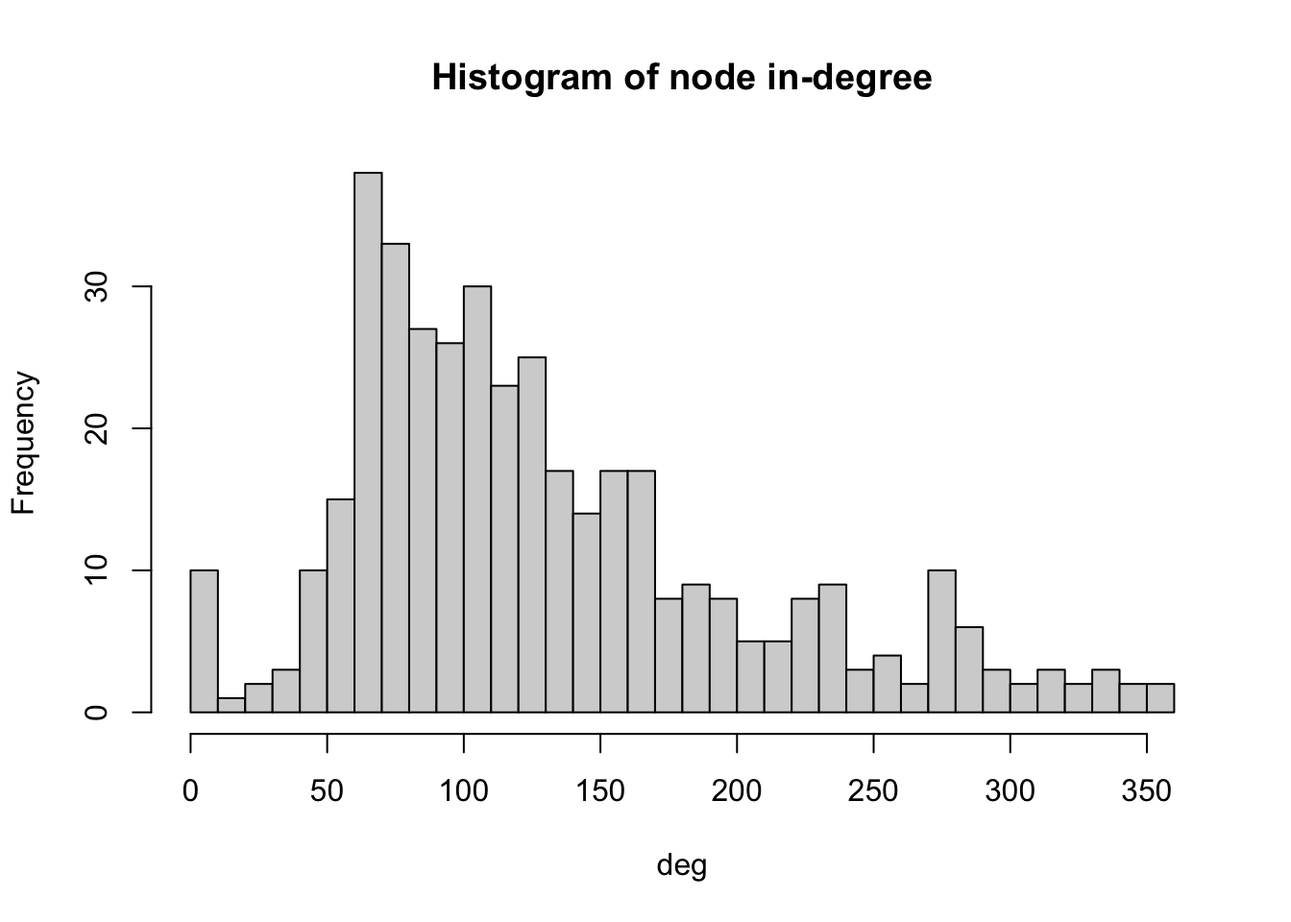
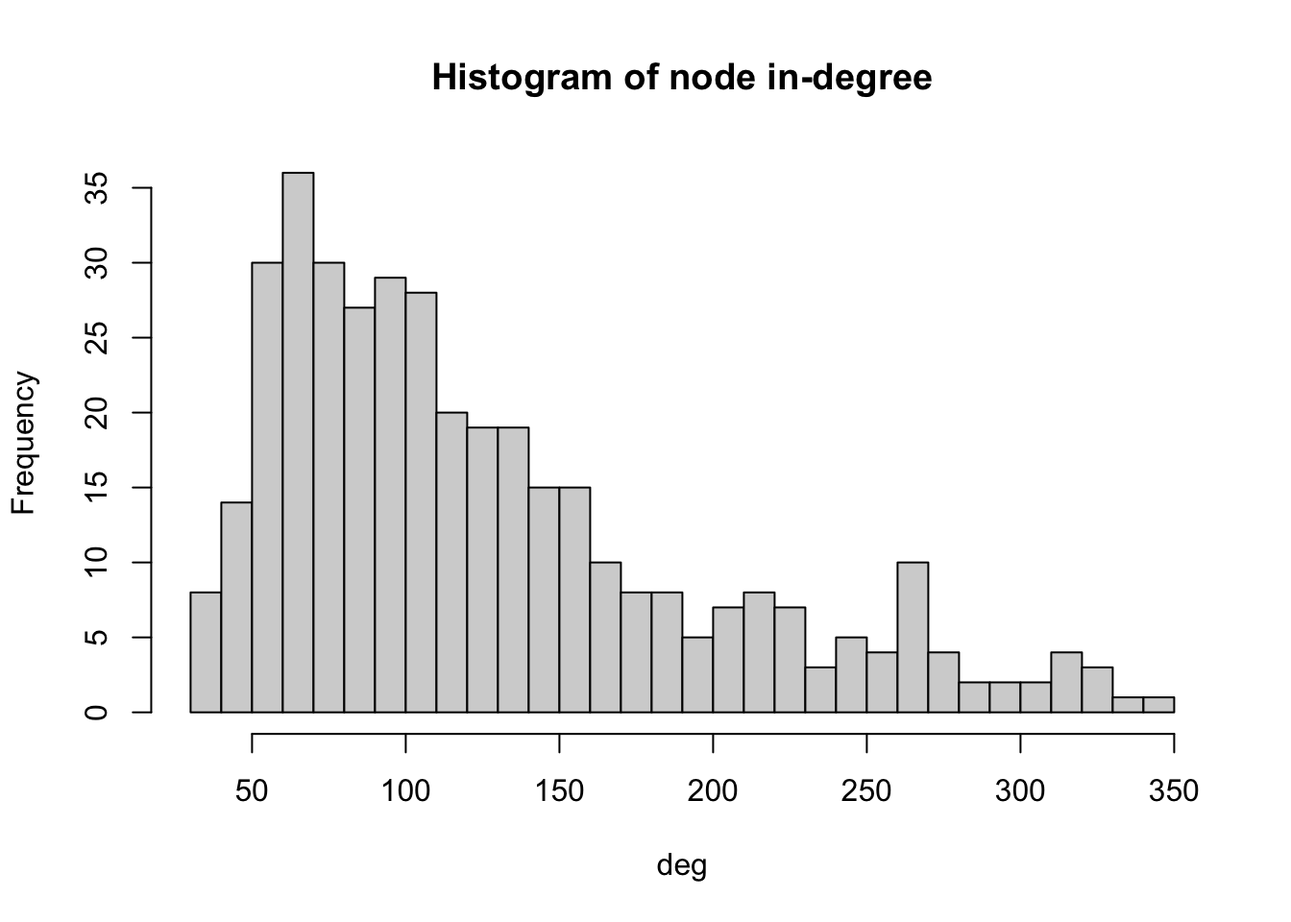
Carmen_17_Jan_night
Up to hubs and authorities

diff --git a/_book/network.html b/_book/network.html
@@ -347,6 +347,7 @@ code span.wa { color: #60a0b0; font-weight: bold; font-style: italic; } /* Warni
 <h3 data-number="5.2.2" class="anchored" data-anchor-id="import-the-data"><span class="header-section-number">5.2.2</span> Import the data</h3>
 <p>Before we start any analysis with the data, ensure to set the path to the directory where we are working. Please replace in the following line the path to the folder where you have placed the data file.</p>
 <div class="cell">
+<<<<<<< Updated upstream
 <div class="sourceCode cell-code" id="cb4"><pre class="sourceCode r code-with-copy"><code class="sourceCode r"><span id="cb4-1"><a href="#cb4-1" aria-hidden="true" tabindex="-1"></a>df <span class="ot">&lt;-</span> <span class="fu">read.csv</span>(<span class="st">"./data/metro_to_metro_2015_2019_US_migration.csv"</span>)</span>
 <span id="cb4-2"><a href="#cb4-2" aria-hidden="true" tabindex="-1"></a></span>
 <span id="cb4-3"><a href="#cb4-3" aria-hidden="true" tabindex="-1"></a><span class="co">#Ensure the MSA code is imported as a character and not as a number</span></span>
@@ -358,6 +359,35 @@ code span.wa { color: #60a0b0; font-weight: bold; font-style: italic; } /* Warni
 <span id="cb4-9"><a href="#cb4-9" aria-hidden="true" tabindex="-1"></a></span>
 <span id="cb4-10"><a href="#cb4-10" aria-hidden="true" tabindex="-1"></a><span class="co">#Examine the first few rows of the dataset</span></span>
 <span id="cb4-11"><a href="#cb4-11" aria-hidden="true" tabindex="-1"></a><span class="fu">head</span>(df) </span></code><button title="Copy to Clipboard" class="code-copy-button"><i class="bi"></i></button></pre></div>
+=======
+<div class="sourceCode cell-code" id="cb12"><pre class="sourceCode r code-with-copy"><code class="sourceCode r"><span id="cb12-1"><a href="#cb12-1" aria-hidden="true" tabindex="-1"></a>df <span class="ot">&lt;-</span> <span class="fu">read.csv</span>(<span class="st">"./data/metro_to_metro_2015_2019_US_migration.csv"</span>)</span>
+<span id="cb12-2"><a href="#cb12-2" aria-hidden="true" tabindex="-1"></a></span>
+<span id="cb12-3"><a href="#cb12-3" aria-hidden="true" tabindex="-1"></a><span class="co">#Ensure the MSA code is imported as a character and not as a number</span></span>
+<span id="cb12-4"><a href="#cb12-4" aria-hidden="true" tabindex="-1"></a>df<span class="sc">$</span>MSA_Current_Code <span class="ot">&lt;-</span> <span class="fu">as.character</span>(df<span class="sc">$</span>MSA_Current_Code) </span>
+<span id="cb12-5"><a href="#cb12-5" aria-hidden="true" tabindex="-1"></a></span>
+<span id="cb12-6"><a href="#cb12-6" aria-hidden="true" tabindex="-1"></a><span class="co">#Include an additional column with the full name of the MSA in the format: Name, State</span></span>
+<span id="cb12-7"><a href="#cb12-7" aria-hidden="true" tabindex="-1"></a>df<span class="sc">$</span>MSA_Previous_Name_State <span class="ot">&lt;-</span> <span class="fu">paste0</span>(df<span class="sc">$</span>MSA_Previous_Name, <span class="st">', '</span>, df<span class="sc">$</span>MSA_Previous_State)</span>
+<span id="cb12-8"><a href="#cb12-8" aria-hidden="true" tabindex="-1"></a>df<span class="sc">$</span>MSA_Current_Name_State <span class="ot">&lt;-</span> <span class="fu">paste0</span>(df<span class="sc">$</span>MSA_Current_Name, <span class="st">', '</span>, df<span class="sc">$</span>MSA_Current_State)</span>
+<span id="cb12-9"><a href="#cb12-9" aria-hidden="true" tabindex="-1"></a></span>
+<span id="cb12-10"><a href="#cb12-10" aria-hidden="true" tabindex="-1"></a>df <span class="ot">&lt;-</span> df[<span class="sc">!</span>(df<span class="sc">$</span>MSA_Previous_Name<span class="sc">==</span><span class="st">"Outside Metro Area within U.S. or Puerto Rico"</span> <span class="sc">|</span></span>
+<span id="cb12-11"><a href="#cb12-11" aria-hidden="true" tabindex="-1"></a>             df<span class="sc">$</span>MSA_Previous_Name<span class="sc">==</span><span class="st">"Africa"</span> <span class="sc">|</span></span>
+<span id="cb12-12"><a href="#cb12-12" aria-hidden="true" tabindex="-1"></a>             df<span class="sc">$</span>MSA_Previous_Name<span class="sc">==</span><span class="st">"Asia"</span> <span class="sc">|</span></span>
+<span id="cb12-13"><a href="#cb12-13" aria-hidden="true" tabindex="-1"></a>             df<span class="sc">$</span>MSA_Previous_Name<span class="sc">==</span><span class="st">"Central America"</span> <span class="sc">|</span></span>
+<span id="cb12-14"><a href="#cb12-14" aria-hidden="true" tabindex="-1"></a>             df<span class="sc">$</span>MSA_Previous_Name<span class="sc">==</span><span class="st">"Caribbean"</span> <span class="sc">|</span></span>
+<span id="cb12-15"><a href="#cb12-15" aria-hidden="true" tabindex="-1"></a>             df<span class="sc">$</span>MSA_Previous_Name<span class="sc">==</span><span class="st">"Europe"</span> <span class="sc">|</span></span>
+<span id="cb12-16"><a href="#cb12-16" aria-hidden="true" tabindex="-1"></a>             df<span class="sc">$</span>MSA_Previous_Name<span class="sc">==</span><span class="st">"U.S. Island Areas"</span> <span class="sc">|</span></span>
+<span id="cb12-17"><a href="#cb12-17" aria-hidden="true" tabindex="-1"></a>             df<span class="sc">$</span>MSA_Previous_Name<span class="sc">==</span><span class="st">"Northern America"</span> <span class="sc">|</span></span>
+<span id="cb12-18"><a href="#cb12-18" aria-hidden="true" tabindex="-1"></a>             df<span class="sc">$</span>MSA_Previous_Name<span class="sc">==</span><span class="st">"Oceania and At Sea"</span> <span class="sc">|</span></span>
+<span id="cb12-19"><a href="#cb12-19" aria-hidden="true" tabindex="-1"></a>             df<span class="sc">$</span>MSA_Previous_Name<span class="sc">==</span><span class="st">"South America"</span></span>
+<span id="cb12-20"><a href="#cb12-20" aria-hidden="true" tabindex="-1"></a>             ), </span>
+<span id="cb12-21"><a href="#cb12-21" aria-hidden="true" tabindex="-1"></a>         ]</span>
+<span id="cb12-22"><a href="#cb12-22" aria-hidden="true" tabindex="-1"></a></span>
+<span id="cb12-23"><a href="#cb12-23" aria-hidden="true" tabindex="-1"></a>df <span class="ot">&lt;-</span> df[<span class="sc">!</span>(df<span class="sc">$</span>MSA_Previous_State<span class="sc">==</span><span class="st">"PR"</span> <span class="sc">|</span></span>
+<span id="cb12-24"><a href="#cb12-24" aria-hidden="true" tabindex="-1"></a>             df<span class="sc">$</span>MSA_Current_State<span class="sc">==</span><span class="st">"PR"</span>), ]</span>
+<span id="cb12-25"><a href="#cb12-25" aria-hidden="true" tabindex="-1"></a>             </span>
+<span id="cb12-26"><a href="#cb12-26" aria-hidden="true" tabindex="-1"></a><span class="co">#Examine the first few rows of the dataset</span></span>
+<span id="cb12-27"><a href="#cb12-27" aria-hidden="true" tabindex="-1"></a><span class="fu">head</span>(df)</span></code><button title="Copy to Clipboard" class="code-copy-button"><i class="bi"></i></button></pre></div>
+>>>>>>> Stashed changes
 <div class="cell-output cell-output-stdout">
 <pre><code>  MSA_Current_Code MSA_Current_Name MSA_Current_State
 1            10180          Abilene                TX
@@ -421,7 +451,7 @@ code span.wa { color: #60a0b0; font-weight: bold; font-style: italic; } /* Warni
 <div class="cell">
 <div class="sourceCode cell-code" id="cb6"><pre class="sourceCode r code-with-copy"><code class="sourceCode r"><span id="cb6-1"><a href="#cb6-1" aria-hidden="true" tabindex="-1"></a><span class="fu">nrow</span>(df)</span></code><button title="Copy to Clipboard" class="code-copy-button"><i class="bi"></i></button></pre></div>
 <div class="cell-output cell-output-stdout">
-<pre><code>[1] 52930</code></pre>
+<pre><code>[1] 48795</code></pre>
 </div>
 </div>
 </section>
@@ -468,7 +498,11 @@ code span.wa { color: #60a0b0; font-weight: bold; font-style: italic; } /* Warni
 <div class="cell">
 <div class="sourceCode cell-code" id="cb11"><pre class="sourceCode r code-with-copy"><code class="sourceCode r"><span id="cb11-1"><a href="#cb11-1" aria-hidden="true" tabindex="-1"></a><span class="fu">V</span>(g3)</span></code><button title="Copy to Clipboard" class="code-copy-button"><i class="bi"></i></button></pre></div>
 <div class="cell-output cell-output-stdout">
+<<<<<<< Updated upstream
 <pre><code>+ 7/7 vertices, named, from 53bb9e3:
+=======
+<pre><code>+ 7/7 vertices, named, from 51e33f1:
+>>>>>>> Stashed changes
 [1] City 1 City 2 City 3 City 4 City 5 City 6 City 7</code></pre>
 </div>
 </div>
@@ -487,7 +521,11 @@ code span.wa { color: #60a0b0; font-weight: bold; font-style: italic; } /* Warni
 <div class="cell">
 <div class="sourceCode cell-code" id="cb16"><pre class="sourceCode r code-with-copy"><code class="sourceCode r"><span id="cb16-1"><a href="#cb16-1" aria-hidden="true" tabindex="-1"></a><span class="fu">E</span>(g3)</span></code><button title="Copy to Clipboard" class="code-copy-button"><i class="bi"></i></button></pre></div>
 <div class="cell-output cell-output-stdout">
+<<<<<<< Updated upstream
 <pre><code>+ 6/6 edges from 53bb9e3 (vertex names):
+=======
+<pre><code>+ 6/6 edges from 51e33f1 (vertex names):
+>>>>>>> Stashed changes
 [1] City 1-&gt;City 2 City 2-&gt;City 3 City 1-&gt;City 4 City 4-&gt;City 1 City 4-&gt;City 2
 [6] City 4-&gt;City 5</code></pre>
 </div>
@@ -729,11 +767,11 @@ Geodetic CRS:  NAD83</code></pre>
 <p>Here we define some of the most important metrics that help us quantify different characteristics of a network. We will use the migration network for the whole of the US again, <em>g_US</em>. It has more nodes and edges than <em>g_sub</em> and consequently, its behaviour is richer and helps us illustrate better the concepts that we introduce in this section.</p>
 <section id="density" class="level3" data-number="5.6.1">
 <h3 data-number="5.6.1" class="anchored" data-anchor-id="density"><span class="header-section-number">5.6.1</span> Density</h3>
-<p>The network <strong>density</strong> is defined as the proportion of existing edges out of all the possible edges. In a network with <span class="math inline">\(n\)</span> nodes, the total number of possible edges is $n\times(n-1)$, i.e.&nbsp;the number of edges if each node was connected to all the other nodes. A density equal to <span class="math inline">\(1\)</span> corresponds to a situation where <span class="math inline">\(n\times(n-1)\)</span> edges are present. A network with no edges at all would have density equal to <span class="math inline">\(0\)</span>. The line of code below tells us that the density of <em>g_sub</em> is approximately 0.33, meaning that about 33% of all the possible edges are present, or in other words, that there are migratory movements between almost a third of every pair of cities.</p>
+<p>The network <strong>density</strong> is defined as the proportion of existing edges out of all the possible edges. In a network with <span class="math inline">\(n\)</span> nodes, the total number of possible edges is <span class="math inline">\(n\times(n-1)\)</span>, i.e.&nbsp;the number of edges if each node was connected to all the other nodes. A density equal to <span class="math inline">\(1\)</span> corresponds to a situation where <span class="math inline">\(n\times(n-1)\)</span> edges are present. A network with no edges at all would have density equal to <span class="math inline">\(0\)</span>. The line of code below tells us that the density of <em>g_US</em> is approximately 0.33, meaning that about 33% of all the possible edges are present, or in other words, that there are migratory movements between almost a third of every pair of cities.</p>
 <div class="cell">
 <div class="sourceCode cell-code" id="cb47"><pre class="sourceCode r code-with-copy"><code class="sourceCode r"><span id="cb47-1"><a href="#cb47-1" aria-hidden="true" tabindex="-1"></a><span class="fu">edge_density</span>(g_US, <span class="at">loops=</span><span class="cn">FALSE</span>)</span></code><button title="Copy to Clipboard" class="code-copy-button"><i class="bi"></i></button></pre></div>
 <div class="cell-output cell-output-stdout">
-<pre><code>[1] 0.3283458</code></pre>
+<pre><code>[1] 0.3317763</code></pre>
 </div>
 </div>
 </section>
@@ -743,14 +781,14 @@ Geodetic CRS:  NAD83</code></pre>
 <div class="cell">
 <div class="sourceCode cell-code" id="cb49"><pre class="sourceCode r code-with-copy"><code class="sourceCode r"><span id="cb49-1"><a href="#cb49-1" aria-hidden="true" tabindex="-1"></a><span class="fu">reciprocity</span>(g_US)</span></code><button title="Copy to Clipboard" class="code-copy-button"><i class="bi"></i></button></pre></div>
 <div class="cell-output cell-output-stdout">
-<pre><code>[1] 0.6067259</code></pre>
+<pre><code>[1] 0.6496977</code></pre>
 </div>
 </div>
 <p>From this result, we conclude that about 62% of the pairs of nodes that are connected have edges in both directions.</p>
 </section>
 <section id="degree" class="level3" data-number="5.6.3">
 <h3 data-number="5.6.3" class="anchored" data-anchor-id="degree"><span class="header-section-number">5.6.3</span> Degree</h3>
-<p>The <strong>total degree</strong> of a node refers to the number of edges that emerge from or point at that node. The <strong>in-degree</strong> of a node in a directed network is the number of edges that point at it whereas the <strong>out-degree</strong> is the number of edges that emerge from it. The <strong>degree()</strong> functions, allows us to compute the degree of one or more nodes and allows us to specify if we are interested in the total degree, the in-degree or the out-degree.</p>
+<p>The <strong>total degree</strong> of a node refers to the number of edges that emerge from or point at that node. The <strong>in-degree</strong> of a node in a directed network is the number of edges that point at it whereas the <strong>out-degree</strong> is the number of edges that emerge from it. The <strong>degree()</strong> function, allows us to compute the degree of one or more nodes and allows us to specify if we are interested in the total degree, the in-degree or the out-degree.</p>
 <div class="cell">
 <div class="sourceCode cell-code" id="cb51"><pre class="sourceCode r code-with-copy"><code class="sourceCode r"><span id="cb51-1"><a href="#cb51-1" aria-hidden="true" tabindex="-1"></a><span class="co"># Compute degree of the nodes given by v belonging to graph g_US, in this case the in-degree</span></span>
 <span id="cb51-2"><a href="#cb51-2" aria-hidden="true" tabindex="-1"></a>deg <span class="ot">&lt;-</span> <span class="fu">degree</span>(g_US, <span class="at">v=</span><span class="fu">V</span>(g_US), <span class="at">mode=</span><span class="st">"in"</span>)</span>
@@ -765,8 +803,7 @@ Geodetic CRS:  NAD83</code></pre>
 <div class="cell">
 <div class="sourceCode cell-code" id="cb52"><pre class="sourceCode r code-with-copy"><code class="sourceCode r"><span id="cb52-1"><a href="#cb52-1" aria-hidden="true" tabindex="-1"></a><span class="fu">V</span>(g_US)<span class="sc">$</span>name[<span class="fu">degree</span>(g_US, <span class="at">mode=</span><span class="st">"in"</span>)<span class="sc">==</span><span class="fu">max</span>(<span class="fu">degree</span>(g_US, <span class="at">mode=</span><span class="st">"in"</span>))]</span></code><button title="Copy to Clipboard" class="code-copy-button"><i class="bi"></i></button></pre></div>
 <div class="cell-output cell-output-stdout">
-<pre><code>[1] "Phoenix-Mesa-Chandler, AZ"                   
-[2] "Washington-Arlington-Alexandria, DC-VA-MD-WV"</code></pre>
+<pre><code>[1] "Phoenix-Mesa-Chandler, AZ"</code></pre>
 </div>
 </div>
 <p>We actually obtain a tie between two: the MSA containing Phoenix in Arizona and the MSA containing Washington DC, which actually spans over four states. Their in-degree is 354 as we can see below.</p>
@@ -774,62 +811,132 @@ Geodetic CRS:  NAD83</code></pre>
 <div class="sourceCode cell-code" id="cb54"><pre class="sourceCode r code-with-copy"><code class="sourceCode r"><span id="cb54-1"><a href="#cb54-1" aria-hidden="true" tabindex="-1"></a><span class="fu">degree</span>(g_US, <span class="at">v=</span><span class="fu">c</span>(<span class="st">"Phoenix-Mesa-Chandler, AZ"</span>), <span class="at">mode=</span><span class="st">"in"</span>)</span></code><button title="Copy to Clipboard" class="code-copy-button"><i class="bi"></i></button></pre></div>
 <div class="cell-output cell-output-stdout">
 <pre><code>Phoenix-Mesa-Chandler, AZ 
-                      354 </code></pre>
+                      341 </code></pre>
 </div>
 <div class="sourceCode cell-code" id="cb56"><pre class="sourceCode r code-with-copy"><code class="sourceCode r"><span id="cb56-1"><a href="#cb56-1" aria-hidden="true" tabindex="-1"></a><span class="fu">degree</span>(g_US, <span class="at">v=</span><span class="fu">c</span>(<span class="st">"Washington-Arlington-Alexandria, DC-VA-MD-WV"</span>), <span class="at">mode=</span><span class="st">"in"</span>)</span></code><button title="Copy to Clipboard" class="code-copy-button"><i class="bi"></i></button></pre></div>
 <div class="cell-output cell-output-stdout">
 <pre><code>Washington-Arlington-Alexandria, DC-VA-MD-WV 
-                                         354 </code></pre>
+                                         336 </code></pre>
 </div>
 </div>
 <p>Note that the fact that these two cities have the largest in-degree does not necessarily mean that they are the ones receiving the largest number of migrants.</p>
 </section>
 <section id="distances" class="level3" data-number="5.6.4">
 <h3 data-number="5.6.4" class="anchored" data-anchor-id="distances"><span class="header-section-number">5.6.4</span> Distances</h3>
-<p>Shortest path between nodes, mean distance, diameter ,etc.</p>
+<p>A <strong>path</strong> in a network between node <span class="math inline">\(A\)</span> and node <span class="math inline">\(B\)</span> is a sequence of edges which joins a sequence of distinct nodes, starting at node <span class="math inline">\(A\)</span> and terminating at node <span class="math inline">\(B\)</span>. In a <strong>directed path</strong> there is an added restriction: the edges must be all directed in the same direction.</p>
+<p>The <strong>length of a path</strong> between nodes <span class="math inline">\(A\)</span> and <span class="math inline">\(B\)</span> is normally defined as the number of edges that form the path. The <strong>shortest path</strong> is the minimum number of edges that need to be traversed to travel from <span class="math inline">\(A\)</span> to <span class="math inline">\(B\)</span>.</p>
+<p>The length of a path can also be defined in other ways. For example, if the edges are weighted, it can be defined as the sum of the weights of the edges that form the path.</p>
+<p>In R, we can use the function <strong>shortest_paths()</strong> to find the shortest path between a given pair of nodes and its length. For example, below we can see that the shortest path between the MSA containing New York and the MSA containing Los Angeles is one. This is not surprising since we would expect an edge connecting these two MSAs representing the fact that there is people migrating from one to the other in two consecutive years.</p>
 <div class="cell">
+<<<<<<< Updated upstream
 <div class="sourceCode cell-code" id="cb58"><pre class="sourceCode r code-with-copy"><code class="sourceCode r"><span id="cb58-1"><a href="#cb58-1" aria-hidden="true" tabindex="-1"></a><span class="fu">diameter</span>(g_US)</span></code><button title="Copy to Clipboard" class="code-copy-button"><i class="bi"></i></button></pre></div>
+=======
+<div class="sourceCode cell-code" id="cb66"><pre class="sourceCode r code-with-copy"><code class="sourceCode r"><span id="cb66-1"><a href="#cb66-1" aria-hidden="true" tabindex="-1"></a><span class="fu">shortest_paths</span>(g_US, </span>
+<span id="cb66-2"><a href="#cb66-2" aria-hidden="true" tabindex="-1"></a><span class="at">from =</span> <span class="fu">V</span>(g_US)<span class="sc">$</span>name<span class="sc">==</span><span class="st">"New York-Newark-Jersey City, NY-NJ-PA"</span>,</span>
+<span id="cb66-3"><a href="#cb66-3" aria-hidden="true" tabindex="-1"></a><span class="at">to =</span> <span class="fu">V</span>(g_US)<span class="sc">$</span>name<span class="sc">==</span><span class="st">"Los Angeles-Long Beach-Anaheim, CA"</span>,</span>
+<span id="cb66-4"><a href="#cb66-4" aria-hidden="true" tabindex="-1"></a><span class="at">weights=</span><span class="cn">NA</span>, <span class="co">#If this is NULL and the graph has a weight edge attribute, then the attribute is used. If this is NA then no weights are used (even if the graph has a weight attribute)</span></span>
+<span id="cb66-5"><a href="#cb66-5" aria-hidden="true" tabindex="-1"></a><span class="at">output =</span> <span class="st">"both"</span>) <span class="co"># outputs both path nodes and edges</span></span></code><button title="Copy to Clipboard" class="code-copy-button"><i class="bi"></i></button></pre></div>
+>>>>>>> Stashed changes
 <div class="cell-output cell-output-stdout">
-<pre><code>[1] 36</code></pre>
+<pre><code>$vpath
+$vpath[[1]]
++ 2/384 vertices, named, from ccd4726:
+[1] New York-Newark-Jersey City, NY-NJ-PA Los Angeles-Long Beach-Anaheim, CA   
+
+
+$epath
+$epath[[1]]
++ 1/48795 edge from ccd4726 (vertex names):
+[1] New York-Newark-Jersey City, NY-NJ-PA-&gt;Los Angeles-Long Beach-Anaheim, CA
+
+
+$predecessors
+NULL
+
+$inbound_edges
+NULL</code></pre>
+</div>
+</div>
+<p>Of all shortest paths in a network, there is longest one whose length is defined as the <strong>diameter</strong> of the network. In this case, the diameter is 3 meaning that the longest of all shortest paths in <em>g_US</em> has 3 edges.</p>
+<div class="cell">
+<div class="sourceCode cell-code" id="cb68"><pre class="sourceCode r code-with-copy"><code class="sourceCode r"><span id="cb68-1"><a href="#cb68-1" aria-hidden="true" tabindex="-1"></a><span class="fu">diameter</span>(g_US, <span class="at">directed=</span><span class="cn">TRUE</span>, <span class="at">weights=</span><span class="cn">NA</span>)</span></code><button title="Copy to Clipboard" class="code-copy-button"><i class="bi"></i></button></pre></div>
+<div class="cell-output cell-output-stdout">
+<pre><code>[1] 2</code></pre>
+</div>
+</div>
+<p>The mean distance is defined as the average length of all shortest paths in the network. The mean distance will always be smaller than the diameter.</p>
+<div class="cell">
+<div class="sourceCode cell-code" id="cb70"><pre class="sourceCode r code-with-copy"><code class="sourceCode r"><span id="cb70-1"><a href="#cb70-1" aria-hidden="true" tabindex="-1"></a><span class="fu">mean_distance</span>(g_US, <span class="at">directed=</span><span class="cn">TRUE</span>, <span class="at">weights=</span><span class="cn">NA</span>)</span></code><button title="Copy to Clipboard" class="code-copy-button"><i class="bi"></i></button></pre></div>
+<div class="cell-output cell-output-stdout">
+<pre><code>[1] 1.668224</code></pre>
 </div>
 </div>
 </section>
 <section id="centrality" class="level3" data-number="5.6.5">
 <h3 data-number="5.6.5" class="anchored" data-anchor-id="centrality"><span class="header-section-number">5.6.5</span> Centrality</h3>
+<p>Centrality metrics assign scores to nodes (and sometimes also edges) according to their position within a network. These metrics can be used to identify the most influential nodes.</p>
+<p>We have already explored some concepts which can be regarded as centrality metrics, for example, the <strong>degree</strong> of a node or the <strong>strength of a node</strong> or weighted degree, which is the sum of edge weights that link to adjacent nodes or, in other words, the total in-flow or out-flow associated with each node. As we can see from the code below, many nodes in <em>g_US</em> have an inflow of less than 100 immigrants.</p>
 <div class="cell">
-<div class="sourceCode cell-code" id="cb60"><pre class="sourceCode r code-with-copy"><code class="sourceCode r"><span id="cb60-1"><a href="#cb60-1" aria-hidden="true" tabindex="-1"></a><span class="fu">centr_degree</span>(g_US, <span class="at">mode=</span><span class="st">"in"</span>, <span class="at">normalized=</span>T)</span></code><button title="Copy to Clipboard" class="code-copy-button"><i class="bi"></i></button></pre></div>
-<div class="cell-output cell-output-stdout">
-<pre><code>$res
-  [1] 198 108 330 108 283 275 127 182 116 175 104  66 251 285 187 104 344 198
- [19] 259 123 258 231 141 197 345 331 280 174  66 113 237 159 110  78 148  96
- [37] 230  63 304 261 220 132  44  73  55  76 300 169 166  95 115 333 115 121
- [55] 125 205 297  79 123  66 144  78 291 330 148  67 176 243 237 150 209 240
- [73] 311 354 105  96 282 230 277 134 228 101 279 304 276 222 110 204 316  73
- [91] 113 110 149 336  73 122 245  81 101 128  45 128 354  78 164 138 157   0
-[109]   0   0   0   0   0   0 172  33 163 276 148 132 271 167 104 103 105  26
-[127] 247 128  36 232 286  53 112 200 160  25 113 261  47  20   0  75  70 170
-[145]  61 194 202  74  81 113 170 164  72 105 221  65  92 255  92 271 216 192
-[163]  55 180 196 181  97 178 170 122 157 117  83 151 232 122 288 228 133 163
-[181] 187  70 227 186  71  68 282  64 127 185 222 240 144  54 276 156 274 157
-[199] 207 235 219 127  69  88 128 158 103 156  74 116 190 102 100 163  90 237
-[217] 104 319  93  67  68  77 179 146   0   0  76 136  68  56 131 166 115  69
-[235] 164  88 106  93 217  99  71 140 200  70  82  81 103  94 146 168 155 109
-[253]  94  95  62 113  98 103 152 123  62  98  87 165 187  76  66 117  69  93
-[271]  85 108  92  90 123 116  88 116 133 213  50  69 110 151  61  99 129  67
-[289]  72  74  65 151 161  63  83 154  93 129 117 107 132 115 145 150 155 125
-[307] 134 130 178  42  62 139 130 151 185 161  54  86  99 100  52  70  74 108
-[325]  75 119 140 128 115 121 134 139  43  52  78  47  68  69  90  87 143  80
-[343]  66  83  50 140 159  67  80 106 114  85 117 107  80 123  95  87  93  72
-[361]  86  81  81  89  63  83  93  54  66 124  55 134  60 119  75  77  81 107
-[379]  77  56  78 113  51  37  74 102  80 145 101  62  87  83 100  64  59  68
-[397]  99  67  41  76  51  46
-
-$centralization
-[1] 0.5544472
-
-$theoretical_max
-[1] 161202</code></pre>
+<div class="sourceCode cell-code" id="cb72"><pre class="sourceCode r code-with-copy"><code class="sourceCode r"><span id="cb72-1"><a href="#cb72-1" aria-hidden="true" tabindex="-1"></a><span class="co"># Compute strength of the nodes belonging to graph g_US, in this case the in-flow</span></span>
+<span id="cb72-2"><a href="#cb72-2" aria-hidden="true" tabindex="-1"></a>strength_US <span class="ot">&lt;-</span> <span class="fu">strength</span>(g_US, <span class="co">#The input graph</span></span>
+<span id="cb72-3"><a href="#cb72-3" aria-hidden="true" tabindex="-1"></a>  <span class="at">vids =</span> <span class="fu">V</span>(g_US), <span class="co"># The vertices for which the strength will be calculated.</span></span>
+<span id="cb72-4"><a href="#cb72-4" aria-hidden="true" tabindex="-1"></a>  <span class="at">mode =</span> <span class="fu">c</span>(<span class="st">"in"</span>), <span class="co">#“in” for in-degree</span></span>
+<span id="cb72-5"><a href="#cb72-5" aria-hidden="true" tabindex="-1"></a>  <span class="at">loops =</span> <span class="cn">FALSE</span>, <span class="co">#whether the loop edges are also counted</span></span>
+<span id="cb72-6"><a href="#cb72-6" aria-hidden="true" tabindex="-1"></a>  <span class="at">weights =</span> <span class="cn">NULL</span> <span class="co">#If the graph has a weight edge attribute, then this is used by default. If the graph does not have a weight edge attribute and this argument is NULL, then a warning is given and degree is called.</span></span>
+<span id="cb72-7"><a href="#cb72-7" aria-hidden="true" tabindex="-1"></a>)</span>
+<span id="cb72-8"><a href="#cb72-8" aria-hidden="true" tabindex="-1"></a>  </span>
+<span id="cb72-9"><a href="#cb72-9" aria-hidden="true" tabindex="-1"></a><span class="co">#Produce histogram of the frequency of nodes with a certain strength</span></span>
+<span id="cb72-10"><a href="#cb72-10" aria-hidden="true" tabindex="-1"></a><span class="fu">hist</span>(strength_US, <span class="at">breaks =</span> <span class="dv">50</span>, <span class="at">main=</span><span class="st">"Histogram of node strength"</span>)</span></code><button title="Copy to Clipboard" class="code-copy-button"><i class="bi"></i></button></pre></div>
+<div class="cell-output-display">
+<p><img src="network_files/figure-html/unnamed-chunk-43-1.png" class="img-fluid" width="672"></p>
 </div>
+</div>
+<p>We can check which is the city with the maximum strentgh:</p>
+<div class="cell">
+<<<<<<< Updated upstream
+<div class="sourceCode cell-code" id="cb60"><pre class="sourceCode r code-with-copy"><code class="sourceCode r"><span id="cb60-1"><a href="#cb60-1" aria-hidden="true" tabindex="-1"></a><span class="fu">centr_degree</span>(g_US, <span class="at">mode=</span><span class="st">"in"</span>, <span class="at">normalized=</span>T)</span></code><button title="Copy to Clipboard" class="code-copy-button"><i class="bi"></i></button></pre></div>
+=======
+<div class="sourceCode cell-code" id="cb73"><pre class="sourceCode r code-with-copy"><code class="sourceCode r"><span id="cb73-1"><a href="#cb73-1" aria-hidden="true" tabindex="-1"></a><span class="fu">V</span>(g_US)<span class="sc">$</span>name[<span class="fu">strength</span>(g_US, <span class="at">vids =</span> <span class="fu">V</span>(g_US), <span class="at">mode =</span> <span class="fu">c</span>(<span class="st">"in"</span>), <span class="at">loops =</span> <span class="cn">FALSE</span>, <span class="at">weights =</span> <span class="cn">NULL</span>)<span class="sc">==</span><span class="fu">max</span>(<span class="fu">strength</span>(g_US, <span class="at">vids =</span> <span class="fu">V</span>(g_US), <span class="at">mode =</span> <span class="fu">c</span>(<span class="st">"in"</span>), <span class="at">loops =</span> <span class="cn">FALSE</span>, <span class="at">weights =</span> <span class="cn">NULL</span>))]</span></code><button title="Copy to Clipboard" class="code-copy-button"><i class="bi"></i></button></pre></div>
+>>>>>>> Stashed changes
+<div class="cell-output cell-output-stdout">
+<pre><code>[1] "Los Angeles-Long Beach-Anaheim, CA"</code></pre>
+</div>
+</div>
+<p>We will look at another two important centrality metrics that are based on the structure of the network. Firstly, <strong>closeness centrality</strong> which is a measure of the length of the shortest path between a node and all the other nodes. For a given node, it is computed as the inverse of the average shortest paths between that node and every other node in the network. So, if a node has closeness centrality close to <span class="math inline">\(1\)</span>, it means that on average, it is very close to the other nodes in the network. A closeness centrality of exactly <span class="math inline">\(0\)</span> corresponds to an isolated node.</p>
+<div class="cell">
+<div class="sourceCode cell-code" id="cb75"><pre class="sourceCode r code-with-copy"><code class="sourceCode r"><span id="cb75-1"><a href="#cb75-1" aria-hidden="true" tabindex="-1"></a>close_centr <span class="ot">&lt;-</span> <span class="fu">closeness</span>(g_US, <span class="at">mode=</span><span class="st">"in"</span>, <span class="at">weights=</span><span class="cn">NA</span>)</span>
+<span id="cb75-2"><a href="#cb75-2" aria-hidden="true" tabindex="-1"></a><span class="fu">hist</span>(close_centr, <span class="at">breaks =</span> <span class="dv">50</span>, <span class="at">main=</span><span class="st">"Histogram of closeness centrality"</span>)</span></code><button title="Copy to Clipboard" class="code-copy-button"><i class="bi"></i></button></pre></div>
+<div class="cell-output-display">
+<p><img src="network_files/figure-html/unnamed-chunk-45-1.png" class="img-fluid" width="672"></p>
+</div>
+</div>
+<div class="cell">
+<div class="sourceCode cell-code" id="cb76"><pre class="sourceCode r code-with-copy"><code class="sourceCode r"><span id="cb76-1"><a href="#cb76-1" aria-hidden="true" tabindex="-1"></a><span class="fu">V</span>(g_US)<span class="sc">$</span>name[<span class="fu">closeness</span>(g_US, <span class="at">vids =</span> <span class="fu">V</span>(g_US), <span class="at">mode =</span> <span class="fu">c</span>(<span class="st">"in"</span>), <span class="at">weights =</span> <span class="cn">NA</span>)<span class="sc">==</span><span class="fu">max</span>(<span class="fu">closeness</span>(g_US, <span class="at">vids =</span> <span class="fu">V</span>(g_US), <span class="at">mode =</span> <span class="fu">c</span>(<span class="st">"in"</span>), <span class="at">weights =</span> <span class="cn">NA</span>))]</span></code><button title="Copy to Clipboard" class="code-copy-button"><i class="bi"></i></button></pre></div>
+<div class="cell-output cell-output-stdout">
+<pre><code>[1] "Phoenix-Mesa-Chandler, AZ"</code></pre>
+</div>
+</div>
+<p>The other metric is known as <strong>betweenness centrality</strong>. For a given node, it is a measure of the number of shortest paths that go through that node. Therefore, nodes with high values of betweenness centrality are those that play a very important role in the connectivity of the network. Betweenness can also be computed for edges.</p>
+<div class="cell">
+<div class="sourceCode cell-code" id="cb78"><pre class="sourceCode r code-with-copy"><code class="sourceCode r"><span id="cb78-1"><a href="#cb78-1" aria-hidden="true" tabindex="-1"></a>between_centr <span class="ot">&lt;-</span> <span class="fu">betweenness</span>(g_US, <span class="at">v =</span> <span class="fu">V</span>(g_US), <span class="at">directed =</span> <span class="cn">TRUE</span>, <span class="at">weights =</span> <span class="cn">NA</span>)</span>
+<span id="cb78-2"><a href="#cb78-2" aria-hidden="true" tabindex="-1"></a><span class="fu">hist</span>(between_centr, <span class="at">breaks =</span> <span class="dv">50</span>, <span class="at">main=</span><span class="st">"Histogram of betweenness centrality"</span>)</span></code><button title="Copy to Clipboard" class="code-copy-button"><i class="bi"></i></button></pre></div>
+<div class="cell-output-display">
+<p><img src="network_files/figure-html/unnamed-chunk-47-1.png" class="img-fluid" width="672"></p>
+</div>
+</div>
+<div class="cell">
+<div class="sourceCode cell-code" id="cb79"><pre class="sourceCode r code-with-copy"><code class="sourceCode r"><span id="cb79-1"><a href="#cb79-1" aria-hidden="true" tabindex="-1"></a><span class="fu">V</span>(g_US)<span class="sc">$</span>name[<span class="fu">betweenness</span>(g_US, <span class="at">v =</span> <span class="fu">V</span>(g_US), <span class="at">directed=</span><span class="cn">TRUE</span>, <span class="at">weights =</span> <span class="cn">NA</span>)<span class="sc">==</span><span class="fu">max</span>(<span class="fu">betweenness</span>(g_US, <span class="at">v =</span> <span class="fu">V</span>(g_US), <span class="at">directed=</span><span class="cn">TRUE</span>, <span class="at">weights =</span> <span class="cn">NA</span>))]</span></code><button title="Copy to Clipboard" class="code-copy-button"><i class="bi"></i></button></pre></div>
+<div class="cell-output cell-output-stdout">
+<pre><code>[1] "Phoenix-Mesa-Chandler, AZ"</code></pre>
+</div>
+</div>
+<p>###Hubs and authorities</p>
+<p>We call hubs or authorities those nodes with a higher-than-average degree. Normally, the name hub is reserved to nodes with high out-degree whereas authority is reserved to nodes with high in-degree. An algorithm to detect hubs and authorities was developed by Jon Kleinberg, although it was initially used to examine web pages.</p>
+<div class="cell">
+
+</div>
+<div class="cell">
+
 </div>
 </section>
 </section>
@@ -839,6 +946,7 @@ $theoretical_max
 <section id="final-visualisation" class="level2" data-number="5.8">
 <h2 data-number="5.8" class="anchored" data-anchor-id="final-visualisation"><span class="header-section-number">5.8</span> Final visualisation</h2>
 <div class="cell">
+<<<<<<< Updated upstream
 <div class="sourceCode cell-code" id="cb62"><pre class="sourceCode r code-with-copy"><code class="sourceCode r"><span id="cb62-1"><a href="#cb62-1" aria-hidden="true" tabindex="-1"></a><span class="co"># V(g_US)$inflow &lt;- rowSums(as.matrix(g_US[]))</span></span>
 <span id="cb62-2"><a href="#cb62-2" aria-hidden="true" tabindex="-1"></a><span class="co"># # Set node size based on inflow of migrants:</span></span>
 <span id="cb62-3"><a href="#cb62-3" aria-hidden="true" tabindex="-1"></a><span class="co"># V(g_US)$size &lt;- 0.03*(V(g_US)$inflow)^0.1</span></span>
@@ -854,6 +962,23 @@ $theoretical_max
 <span id="cb62-13"><a href="#cb62-13" aria-hidden="true" tabindex="-1"></a><span class="co"># plot(g_US, layout=lo, add = TRUE, rescale = FALSE, vertex.size=V(g_US)$size, edge.arrow.size=.1, edge.arrow.width=1., edge.curved=0.1, edge.width=E(g_US)$width, edge.color=adjustcolor("gray80", alpha.f = .1), vertex.color="gold", vertex.frame.color=adjustcolor("gray100", alpha.f = .01),</span></span>
 <span id="cb62-14"><a href="#cb62-14" aria-hidden="true" tabindex="-1"></a><span class="co"># vertex.label="", vertex.label.color="black",</span></span>
 <span id="cb62-15"><a href="#cb62-15" aria-hidden="true" tabindex="-1"></a><span class="co"># vertex.label.cex=.0)</span></span></code><button title="Copy to Clipboard" class="code-copy-button"><i class="bi"></i></button></pre></div>
+=======
+<div class="sourceCode cell-code" id="cb81"><pre class="sourceCode r code-with-copy"><code class="sourceCode r"><span id="cb81-1"><a href="#cb81-1" aria-hidden="true" tabindex="-1"></a><span class="fu">V</span>(g_US)<span class="sc">$</span>inflow <span class="ot">&lt;-</span> <span class="fu">rowSums</span>(<span class="fu">as.matrix</span>(g_US[]))</span>
+<span id="cb81-2"><a href="#cb81-2" aria-hidden="true" tabindex="-1"></a><span class="co"># Set node size based on inflow of migrants:</span></span>
+<span id="cb81-3"><a href="#cb81-3" aria-hidden="true" tabindex="-1"></a><span class="fu">V</span>(g_sub)<span class="sc">$</span>size <span class="ot">&lt;-</span> <span class="fl">0.4</span><span class="sc">*</span>(<span class="fu">V</span>(g_sub)<span class="sc">$</span>inflow)<span class="sc">^</span><span class="fl">0.4</span></span>
+<span id="cb81-4"><a href="#cb81-4" aria-hidden="true" tabindex="-1"></a><span class="co"># Set edge width based on weight:</span></span>
+<span id="cb81-5"><a href="#cb81-5" aria-hidden="true" tabindex="-1"></a><span class="fu">E</span>(g_US)<span class="sc">$</span>width <span class="ot">&lt;-</span> <span class="fu">E</span>(g_US)<span class="sc">$</span>weight<span class="sc">/</span><span class="dv">1200</span></span>
+<span id="cb81-6"><a href="#cb81-6" aria-hidden="true" tabindex="-1"></a><span class="co"># Join the data frame of nodes df_sub_nodes with the geographic information of the centroid of each MSA</span></span>
+<span id="cb81-7"><a href="#cb81-7" aria-hidden="true" tabindex="-1"></a>df_spatial_nodes <span class="ot">&lt;-</span> df_nodes <span class="sc">%&gt;%</span> <span class="fu">left_join</span>(msa_us, <span class="at">by =</span> <span class="fu">c</span>(<span class="st">"name"</span> <span class="ot">=</span> <span class="st">"NAME"</span>)) <span class="sc">%&gt;%</span> <span class="fu">select</span>(<span class="fu">c</span>(<span class="st">"name"</span>, <span class="st">"lon_centroid"</span>, <span class="st">"lat_centroid"</span>))</span>
+<span id="cb81-8"><a href="#cb81-8" aria-hidden="true" tabindex="-1"></a>lo <span class="ot">&lt;-</span> <span class="fu">as.matrix</span>(df_spatial_nodes[,<span class="dv">2</span><span class="sc">:</span><span class="dv">3</span>])</span>
+<span id="cb81-9"><a href="#cb81-9" aria-hidden="true" tabindex="-1"></a></span>
+<span id="cb81-10"><a href="#cb81-10" aria-hidden="true" tabindex="-1"></a></span>
+<span id="cb81-11"><a href="#cb81-11" aria-hidden="true" tabindex="-1"></a><span class="fu">plot</span>(<span class="fu">st_geometry</span>(msa_us), <span class="at">border=</span><span class="fu">adjustcolor</span>(<span class="st">"gray65"</span>, <span class="at">alpha.f=</span><span class="fl">0.4</span>), <span class="at">lwd=</span><span class="fl">0.6</span>) </span>
+<span id="cb81-12"><a href="#cb81-12" aria-hidden="true" tabindex="-1"></a><span class="fu">plot</span>(g_US, <span class="at">layout=</span>lo, <span class="at">add =</span> <span class="cn">TRUE</span>, <span class="at">rescale =</span> <span class="cn">FALSE</span>, <span class="at">vertex.size=</span><span class="fu">V</span>(g_US)<span class="sc">$</span>size, <span class="at">edge.arrow.size=</span><span class="dv">0</span>, <span class="at">edge.arrow.width=</span><span class="dv">0</span>, <span class="at">edge.curved=</span><span class="fl">0.1</span>, <span class="at">edge.width=</span><span class="dv">0</span>, <span class="at">edge.color=</span><span class="fu">adjustcolor</span>(<span class="st">"gray80"</span>, <span class="at">alpha.f =</span> <span class="fl">0.3</span>), <span class="at">vertex.color=</span><span class="st">"gold"</span>, <span class="at">vertex.frame.color=</span><span class="fu">adjustcolor</span>(<span class="st">"gray100"</span>, <span class="at">alpha.f =</span> .<span class="dv">01</span>), <span class="at">vertex.frame.width =</span><span class="dv">0</span>, <span class="at">vertex.label=</span><span class="st">""</span>, <span class="at">vertex.label.color=</span><span class="st">"black"</span>, <span class="at">vertex.label.cex=</span>.<span class="dv">0</span>)</span></code><button title="Copy to Clipboard" class="code-copy-button"><i class="bi"></i></button></pre></div>
+<div class="cell-output-display">
+<p><img src="network_files/figure-html/unnamed-chunk-51-1.png" class="img-fluid" width="672"></p>
+</div>
+>>>>>>> Stashed changes
 </div>
 
 
